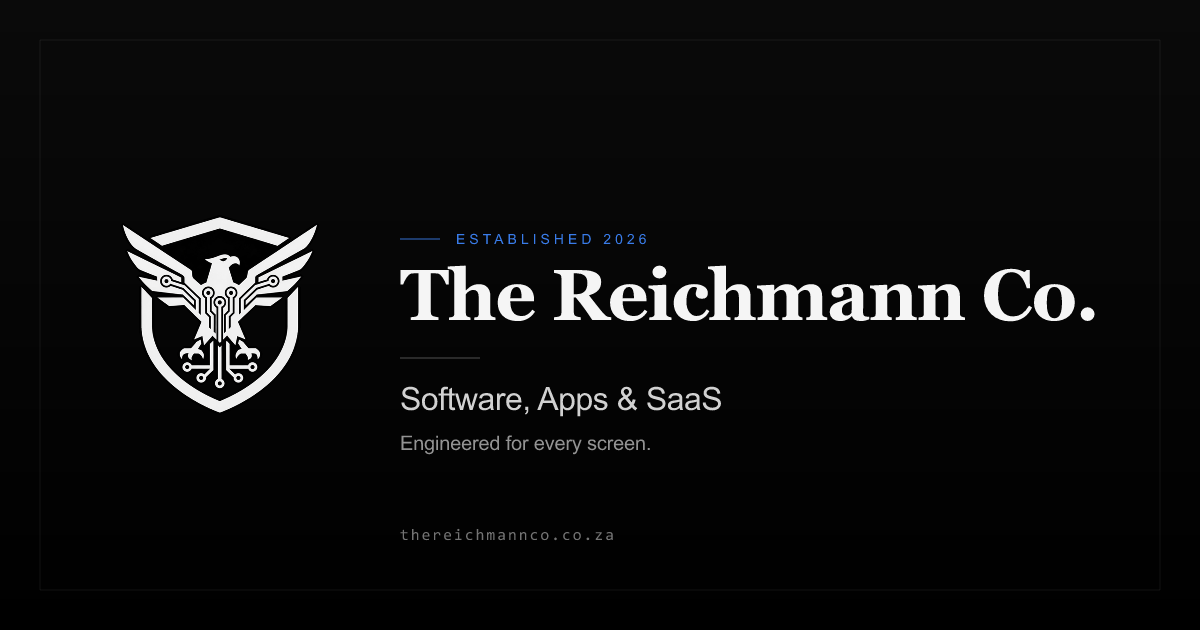
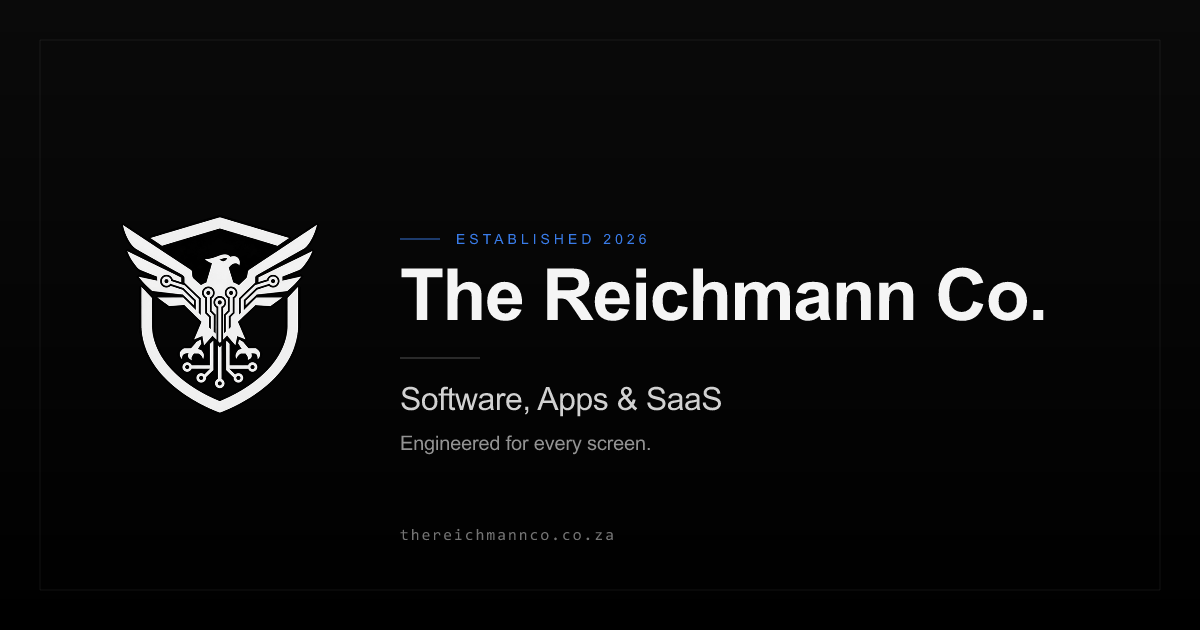
Switch to flat system font stack across the site
- styles.css: --font-sans + --font-serif now both point to the OS
  system stack (-apple-system, BlinkMacSystemFont, Segoe UI, Roboto…),
  --font-mono uses ui-monospace + SFMono/Menlo/Consolas. No web fonts
  required.
- All 15 HTML files: removed the Google Fonts preconnect + stylesheet
  link (Playfair Display / Inter / JetBrains Mono are no longer
  fetched), saving a render-blocking request.
- og-image.svg: Inter and Playfair Display references replaced with
  system fallbacks; og-image.png regenerated.

Site now renders entirely in the user's native OS font — plain, flat,
faster.

Changed region(s): [[0.3392, 0.4222, 0.925, 0.5127]]

diff --git a/styles.css b/styles.css
@@ -26,10 +26,10 @@
     --sky: #60a5fa;
     --sky-glow: rgba(14, 165, 233, 0.25);
 
-    /* Typography — site-wide font matches "The Reichmann Co." wordmark */
-    --font-sans: 'Playfair Display', 'Cormorant Garamond', Georgia, 'Times New Roman', serif;
-    --font-serif: 'Playfair Display', 'Cormorant Garamond', Georgia, 'Times New Roman', serif;
-    --font-mono: 'JetBrains Mono', 'Menlo', 'Monaco', monospace;
+    /* Typography — flat system stack, no web fonts */
+    --font-sans: -apple-system, BlinkMacSystemFont, 'Segoe UI', Roboto, Oxygen, Ubuntu, Cantarell, 'Helvetica Neue', Arial, sans-serif;
+    --font-serif: -apple-system, BlinkMacSystemFont, 'Segoe UI', Roboto, Oxygen, Ubuntu, Cantarell, 'Helvetica Neue', Arial, sans-serif;
+    --font-mono: ui-monospace, SFMono-Regular, Menlo, Monaco, Consolas, 'Courier New', monospace;
 
     /* Spacing */
     --container-width: 1600px;

diff --git a/404.html b/404.html
@@ -6,9 +6,6 @@
     <meta name="description" content="Page not found. The URL you requested doesn't exist on thereichmannco.co.za.">
     <meta name="robots" content="noindex, nofollow">
     <title>404 · Page Not Found · The Reichmann Co.</title>
-    <link rel="preconnect" href="https://fonts.googleapis.com">
-    <link rel="preconnect" href="https://fonts.gstatic.com" crossorigin>
-    <link href="https://fonts.googleapis.com/css2?family=Playfair+Display:wght@400;500;600;700;800&family=Inter:wght@300;400;500;600;700;800&family=JetBrains+Mono:wght@400;500&display=swap" rel="stylesheet">
     <link rel="stylesheet" href="styles.css">
     <link rel="icon" type="image/svg+xml" href="favicon.svg?v=3">
     <link rel="icon" type="image/png" sizes="32x32" href="favicon-32.png">

diff --git a/about.html b/about.html
@@ -13,9 +13,6 @@
     <meta property="og:site_name" content="The Reichmann Co.">
     <meta property="og:locale" content="en_ZA">
     <title>About · The Reichmann Co.</title>
-    <link rel="preconnect" href="https://fonts.googleapis.com">
-    <link rel="preconnect" href="https://fonts.gstatic.com" crossorigin>
-    <link href="https://fonts.googleapis.com/css2?family=Playfair+Display:wght@400;500;600;700;800&family=Inter:wght@300;400;500;600;700;800&family=JetBrains+Mono:wght@400;500&display=swap" rel="stylesheet">
     <link rel="stylesheet" href="styles.css">
     <link rel="icon" type="image/svg+xml" href="favicon.svg?v=3">
     <link rel="icon" type="image/png" sizes="32x32" href="favicon-32.png">

diff --git a/blog/index.html b/blog/index.html
@@ -12,9 +12,6 @@
     <meta property="og:site_name" content="The Reichmann Co.">
     <meta property="og:locale" content="en_ZA">
     <title>Insights · The Reichmann Co.</title>
-    <link rel="preconnect" href="https://fonts.googleapis.com">
-    <link rel="preconnect" href="https://fonts.gstatic.com" crossorigin>
-    <link href="https://fonts.googleapis.com/css2?family=Playfair+Display:wght@400;500;600;700;800&family=Inter:wght@300;400;500;600;700;800&family=JetBrains+Mono:wght@400;500&display=swap" rel="stylesheet">
     <link rel="stylesheet" href="/styles.css">
     <link rel="icon" type="image/svg+xml" href="/favicon.svg?v=3">
     <link rel="apple-touch-icon" sizes="180x180" href="/apple-touch-icon.png">

diff --git a/contact.html b/contact.html
@@ -12,9 +12,6 @@
     <meta property="og:site_name" content="The Reichmann Co.">
     <meta property="og:locale" content="en_ZA">
     <title>Contact · The Reichmann Co.</title>
-    <link rel="preconnect" href="https://fonts.googleapis.com">
-    <link rel="preconnect" href="https://fonts.gstatic.com" crossorigin>
-    <link href="https://fonts.googleapis.com/css2?family=Playfair+Display:wght@400;500;600;700;800&family=Inter:wght@300;400;500;600;700;800&family=JetBrains+Mono:wght@400;500&display=swap" rel="stylesheet">
     <link rel="stylesheet" href="styles.css">
     <link rel="icon" type="image/svg+xml" href="favicon.svg?v=3">
     <link rel="apple-touch-icon" sizes="180x180" href="apple-touch-icon.png">

diff --git a/index.html b/index.html
@@ -22,9 +22,6 @@
     <meta name="twitter:image" content="https://thereichmannco.co.za/og-image.png">
     <meta name="twitter:image:alt" content="The Reichmann Co. — Software, Apps & SaaS. Engineered for every screen.">
     <title>The Reichmann Co. · Software, Apps & SaaS</title>
-    <link rel="preconnect" href="https://fonts.googleapis.com">
-    <link rel="preconnect" href="https://fonts.gstatic.com" crossorigin>
-    <link href="https://fonts.googleapis.com/css2?family=Playfair+Display:wght@400;500;600;700;800&family=Inter:wght@300;400;500;600;700;800&family=JetBrains+Mono:wght@400;500&display=swap" rel="stylesheet">
     <link rel="stylesheet" href="styles.css">
     <link rel="icon" type="image/svg+xml" href="favicon.svg?v=3">
     <link rel="icon" type="image/png" sizes="32x32" href="favicon-32.png">

diff --git a/privacy.html b/privacy.html
@@ -16,9 +16,6 @@
     <meta name="twitter:card" content="summary_large_image">
     <meta name="twitter:image" content="https://thereichmannco.co.za/og-image.png">
     <title>Privacy Policy · The Reichmann Co.</title>
-    <link rel="preconnect" href="https://fonts.googleapis.com">
-    <link rel="preconnect" href="https://fonts.gstatic.com" crossorigin>
-    <link href="https://fonts.googleapis.com/css2?family=Playfair+Display:wght@400;500;600;700;800&family=Inter:wght@300;400;500;600;700;800&family=JetBrains+Mono:wght@400;500&display=swap" rel="stylesheet">
     <link rel="stylesheet" href="styles.css">
     <link rel="icon" type="image/svg+xml" href="favicon.svg?v=3">
     <link rel="icon" type="image/png" sizes="32x32" href="favicon-32.png">

diff --git a/products.html b/products.html
@@ -12,9 +12,6 @@
     <meta property="og:site_name" content="The Reichmann Co.">
     <meta property="og:locale" content="en_ZA">
     <title>Products · The Reichmann Co.</title>
-    <link rel="preconnect" href="https://fonts.googleapis.com">
-    <link rel="preconnect" href="https://fonts.gstatic.com" crossorigin>
-    <link href="https://fonts.googleapis.com/css2?family=Playfair+Display:wght@400;500;600;700;800&family=Inter:wght@300;400;500;600;700;800&family=JetBrains+Mono:wght@400;500&display=swap" rel="stylesheet">
     <link rel="stylesheet" href="styles.css">
     <link rel="icon" type="image/svg+xml" href="favicon.svg?v=3">
     <link rel="apple-touch-icon" sizes="180x180" href="apple-touch-icon.png">

diff --git a/products/lumarix.html b/products/lumarix.html
@@ -12,9 +12,6 @@
     <meta property="og:site_name" content="The Reichmann Co.">
     <meta property="og:locale" content="en_ZA">
     <title>Lumarix · The Reichmann Co.</title>
-    <link rel="preconnect" href="https://fonts.googleapis.com">
-    <link rel="preconnect" href="https://fonts.gstatic.com" crossorigin>
-    <link href="https://fonts.googleapis.com/css2?family=Playfair+Display:wght@400;500;600;700;800&family=Inter:wght@300;400;500;600;700;800&family=JetBrains+Mono:wght@400;500&display=swap" rel="stylesheet">
     <link rel="stylesheet" href="/styles.css">
     <link rel="icon" type="image/svg+xml" href="/favicon.svg?v=3">
     <link rel="apple-touch-icon" sizes="180x180" href="/apple-touch-icon.png">

diff --git a/services.html b/services.html
@@ -13,9 +13,6 @@
     <meta property="og:site_name" content="The Reichmann Co.">
     <meta property="og:locale" content="en_ZA">
     <title>Services · The Reichmann Co.</title>
-    <link rel="preconnect" href="https://fonts.googleapis.com">
-    <link rel="preconnect" href="https://fonts.gstatic.com" crossorigin>
-    <link href="https://fonts.googleapis.com/css2?family=Playfair+Display:wght@400;500;600;700;800&family=Inter:wght@300;400;500;600;700;800&family=JetBrains+Mono:wght@400;500&display=swap" rel="stylesheet">
     <link rel="stylesheet" href="styles.css">
     <link rel="icon" type="image/svg+xml" href="favicon.svg?v=3">
     <link rel="icon" type="image/png" sizes="32x32" href="favicon-32.png">

diff --git a/services/ai-integrations.html b/services/ai-integrations.html
@@ -12,9 +12,6 @@
     <meta property="og:site_name" content="The Reichmann Co.">
     <meta property="og:locale" content="en_ZA">
     <title>AI &amp; Integrations · The Reichmann Co.</title>
-    <link rel="preconnect" href="https://fonts.googleapis.com">
-    <link rel="preconnect" href="https://fonts.gstatic.com" crossorigin>
-    <link href="https://fonts.googleapis.com/css2?family=Playfair+Display:wght@400;500;600;700;800&family=Inter:wght@300;400;500;600;700;800&family=JetBrains+Mono:wght@400;500&display=swap" rel="stylesheet">
     <link rel="stylesheet" href="/styles.css">
     <link rel="icon" type="image/svg+xml" href="/favicon.svg?v=3">
     <link rel="apple-touch-icon" sizes="180x180" href="/apple-touch-icon.png">

diff --git a/services/cloud-backend.html b/services/cloud-backend.html
@@ -12,9 +12,6 @@
     <meta property="og:site_name" content="The Reichmann Co.">
     <meta property="og:locale" content="en_ZA">
     <title>Cloud &amp; Backend · The Reichmann Co.</title>
-    <link rel="preconnect" href="https://fonts.googleapis.com">
-    <link rel="preconnect" href="https://fonts.gstatic.com" crossorigin>
-    <link href="https://fonts.googleapis.com/css2?family=Playfair+Display:wght@400;500;600;700;800&family=Inter:wght@300;400;500;600;700;800&family=JetBrains+Mono:wght@400;500&display=swap" rel="stylesheet">
     <link rel="stylesheet" href="/styles.css">
     <link rel="icon" type="image/svg+xml" href="/favicon.svg?v=3">
     <link rel="apple-touch-icon" sizes="180x180" href="/apple-touch-icon.png">